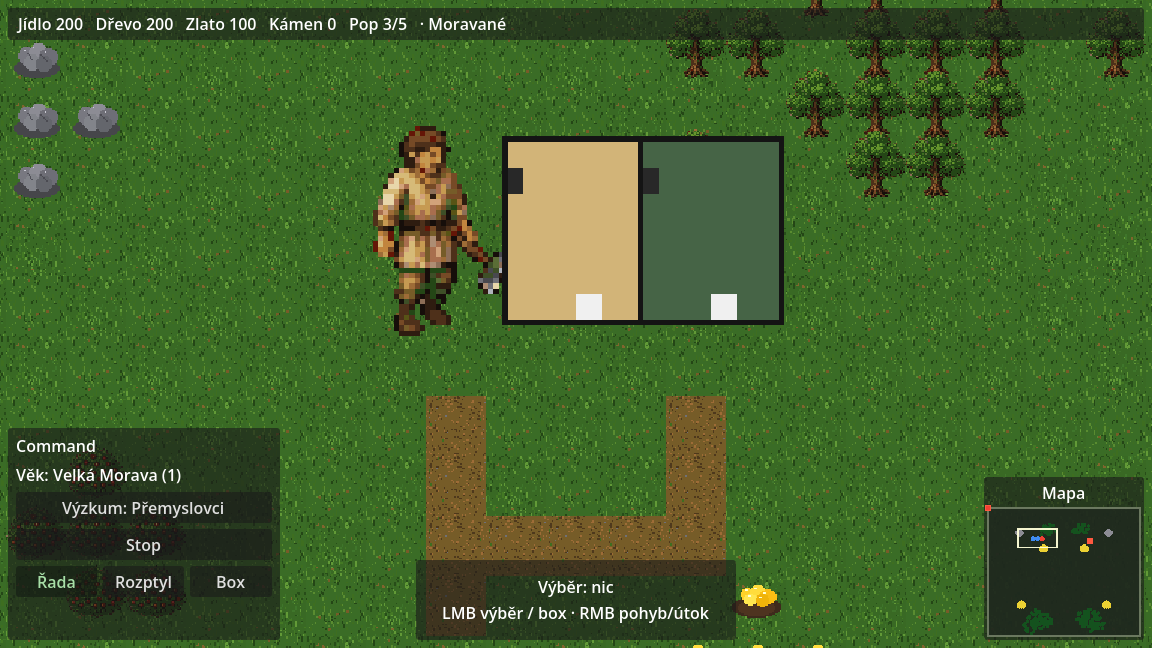
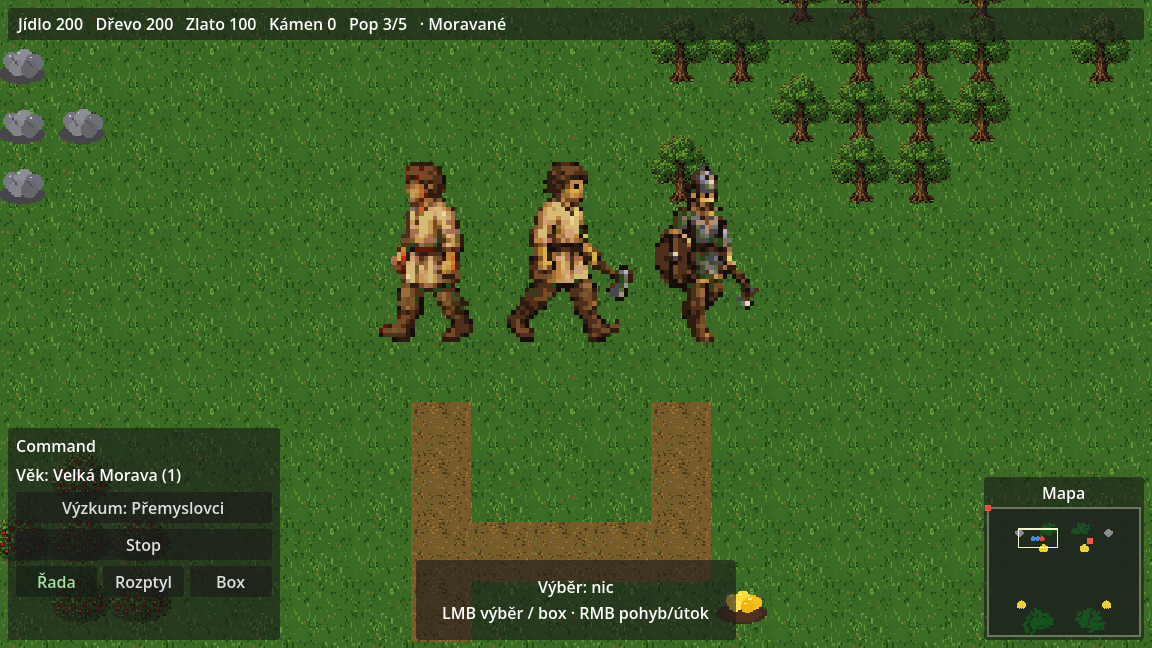
T-17: wire walk-v1 villager + soldier sheets
Replace placeholder walk PNGs with art/walk-v1 (PR #10 pipeline), refresh
ART.md debt notes + screenshot; feet/anchor unchanged; T-18 AI tint preserved.

diff --git a/art_import/README_sprites_walk.md b/art_import/README_sprites_walk.md
@@ -1,25 +1,48 @@
-# Sprites walk-v1 (T-17) — villager + soldier walk cycles
+# Sprites walk-v1 (T-17) — villager + soldier walk cycles (no code changes)
 
-Expected finished walk sheets via branch `art/walk-v1` in the ORIGINAL PR #10 pipeline:
-generated pixel-art sheet on magenta → key → defringe → crop → nearest-neighbour scale →
-shared 32-colour palette (the PR #10 palette, no dither).
+Production walk sheets in the ORIGINAL PR #10 pipeline:
+generated pixel-art sheets on flat magenta (GenerateImage, idle sprites + style_reference.jpg /
+sheet_military_units_v2.jpg as references) → key → defringe → crop → nearest-neighbour scale →
+shared 32-colour PR #10 palette (no dither). No procedurally drawn pixels, no sliding/deforming of idle sprites.
+Script: `walk/walk_process.py` (reuses siege/siege_process.py key/defringe/finish + work/palette.png).
 
-Until that pack lands, `assets/sprites/units/{villager,soldier}_walk.png` are **temporary
-solid-color bordered placeholders** (prefs) so walk-frame switching can be smoke-tested.
-They are not production pixel art.
+## Import (worker)
+
+```
+base64 -d art_import/sprites_walk.tar.gz.b64 > /tmp/sprites_walk.tar.gz
+cd /tmp && sha256sum -c <repo>/art_import/sprites_walk.tar.gz.sha256   # file must be named sprites_walk.tar.gz
+tar -xzf /tmp/sprites_walk.tar.gz -C <repo>    # writes assets/sprites/units/{villager,soldier}_walk.png (+ this README)
+```
+Do not commit the .b64 to main (same as the siege pack).
 
 ## Layout (engine contract)
 
-- One sheet per unit: `assets/sprites/units/{unit}_walk.png`
-- **4 columns** (walk frames 0–3) × **4 rows** (down, left, right, up)
-- Cell size ~32×40 (body height ~40 px, same scale as idle facings)
-- Idle remains `{unit}_{down,left,right,up}.png` (unchanged)
-- Front 3/4, consistent with existing static sprites; `_right` may be a mirror of `_left`
-- Do NOT draw sprites procedurally. Do NOT slide/deform a static idle image as animation.
+- One sheet per unit: `assets/sprites/units/{unit}_walk.png`, **128×160**
+- **4 columns** (walk frames 0–3) × **4 rows** (down, left, right, up), cell **32×40**
+- Character bottom-centred in each cell (feet on the cell's bottom row); horizontal anchor = head/torso
+  centre, so strides do not make the body jitter. Tallest frame per facing = 40 px, same as idle.
+- `_right` row = horizontal mirror of `_left` (left faces screen-left).
+- No team-blue (40,86,160) pixels (idle sprites have none) → keep using modulate / T-18 fallback tint.
+- Suggested playback: 4 frames at ~6–8 fps while moving; idle sprite when stopped.
 
-## Files (target)
+## Files
+| File | Size | Colours |
+|---|---|---|
+| `assets/sprites/units/villager_walk.png` | 128×160 | 28 of the 32 PR #10 palette |
+| `assets/sprites/units/soldier_walk.png` | 128×160 | 27 of the 32 PR #10 palette |
 
-| File | Size |
-|---|---|
-| `assets/sprites/units/villager_walk.png` | 128×160 (4×4 × 32×40) |
-| `assets/sprites/units/soldier_walk.png` | 128×160 (4×4 × 32×40) |
+## Frame sources (raw generations in walk/raw/)
+- villager left/right: `villager_side_v2.jpg` frames 1–4 (contact, down, passing, up).
+- villager down: `villager_frontback_v3.jpg` frames 1, 2 (mirrored), 4 (mirrored), 2 (mirrored) — mirrors only
+  so the axe stays in the screen-right hand like `villager_down.png`; frame 3 of the generation (sideways stride) dropped.
+- villager up: `villager_frontback_v3.jpg` frames 5–8.
+- soldier left/right: `soldier_side_v2.jpg` frames 1–4; soldier down/up: `soldier_frontback_v2.jpg` rows 1/2.
+- Rejected: `villager_walk_v1.jpg` (4×4 sheet: side rows mixed facings/axe hands, slimmer proportions than idle),
+  `soldier_walk_v1.jpg` (side frames all the same stride pose), `soldier_side_v3.jpg` (asked for green mail, came out identical to v2).
+
+## Notes / art debt
+- Quantize uses the PR #10 foliage thresholds (work/polish.py) with int32 maths, so the soldier's grey-olive mail lands
+  on the same olive greens as `soldier_*.png`; a few axe-head pixels also pick up an olive tint.
+- Villager down row: frame 2 has a slight 3/4 head turn (body sway) and frames 1/3 repeat the passing pose.
+- Villager up row leans slightly 3/4 to the right; side rows are the strongest part of the pack.
+- Walk figures are a little slimmer than the idle front sprites (villager 21 px vs 26 px wide in the down row).

diff --git a/docs/ART.md b/docs/ART.md
@@ -108,22 +108,27 @@ Sprites without distinguishable `(40, 86, 160)` team indices (shader is a no-op 
 ## T-17 walk-cycle (villager + soldier)
 
 Code in `Unit.gd`: optional walk sheet `assets/sprites/units/{unit}_walk.png`
-(4 columns × 4 rows: frames × down/left/right/up). Idle = existing static facing PNGs.
-Units without a walk sheet keep the static facing sprite. Frame swaps do **not** reset
-`modulate` / shader material (T-18 palette-swap + AI tint preserved).
+(4 columns × 4 rows: frames × down/left/right/up, cell 32×40, bottom-centred). Idle = existing
+static facing PNGs. Units without a walk sheet keep the static facing sprite. Frame swaps do
+**not** reset `modulate` / shader material (T-18 palette-swap + AI tint preserved). Feet/anchor
+uses the same per-frame height as idle (40 px) so idle↔walk does not jump.
 
 | File | Size | Notes |
 |---|---|---|
-| `assets/sprites/units/villager_walk.png` | 128×160 (32×40 cells) | **placeholder** solid fill + border until `art/walk-v1` |
-| `assets/sprites/units/soldier_walk.png` | 128×160 (32×40 cells) | **placeholder** solid fill + border until `art/walk-v1` |
+| `assets/sprites/units/villager_walk.png` | 128×160 | walk-v1 (PR #10 pipeline) |
+| `assets/sprites/units/soldier_walk.png` | 128×160 | walk-v1 (PR #10 pipeline) |
 
-Finished walk art should arrive via branch `art/walk-v1` (`art_import/`) using the PR #10
-pipeline (magenta key → defringe → crop → NN scale → shared 32-colour palette). No `gen_*`
-procedural sprite drawing; do not slide/deform idle frames as “animation”.
-Screenshot: `docs/screenshots/t17_walk.png`.
+Import source branch: `art/walk-v1` (`art_import/sprites_walk.tar.gz` sha256 `10038ed3…d36f`).
+No `gen_*` procedural drawing. Screenshot: `docs/screenshots/t17_walk.png`.
+
+### Art debt (walk-v1)
+
+- Villager **front (down)** walk: slight head turn in frame 2 (body sway); frames 1/3 repeat the passing pose.
+- Walk figures a few px narrower than idle fronts (villager ~21 vs ~26 px wide in the down row).
+- A few olive pixels on the axe head (quantize / foliage thresholds).
 
 ## What this pack does not include
 
-- Finished walk-cycle pixel art (villager/soldier use temporary placeholders; other units idle-only).
+- Walk-cycle sheets for units beyond villager + soldier (others idle-only).
 - Dedicated trebuchet unpacked / firing frames (T-23 uses packed art + subtle deploy cue).
 - Full team-blue coverage on every unit/building (see art debt above).
